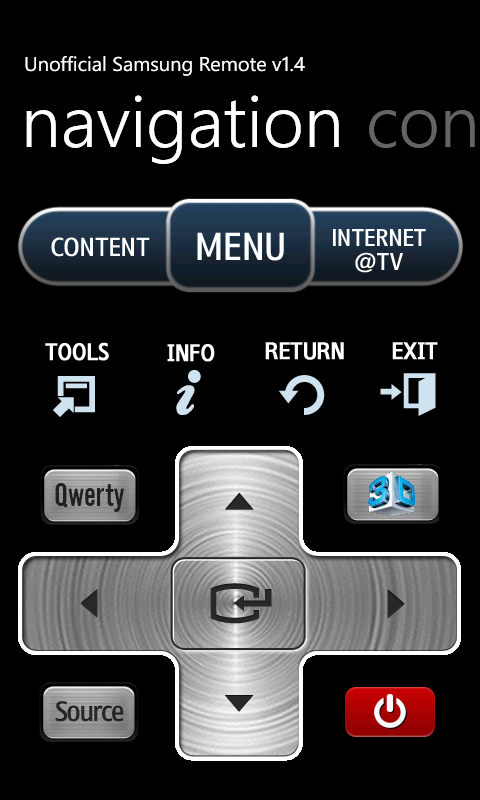
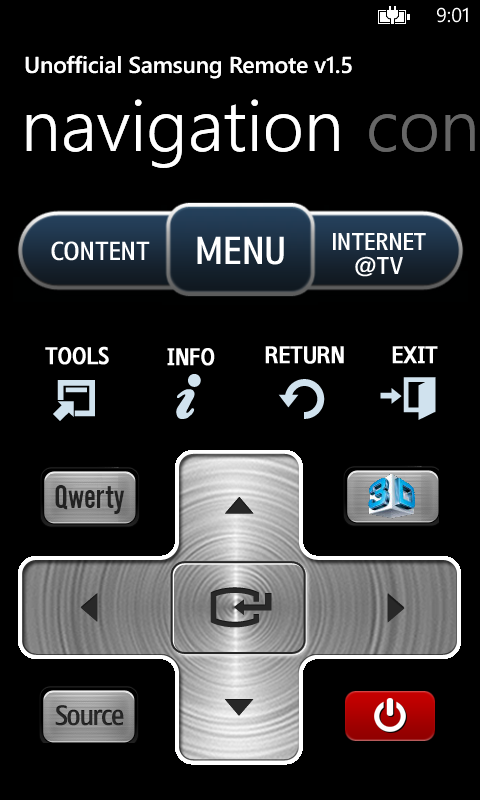
- Fixes for ES TVs and WP8 connectivity/registration weirdness - Version bump to 1.5 - New materials for updated submission requirements - Updated marketing images for v1.5

diff --git a/About.xaml b/About.xaml
@@ -58,7 +58,7 @@
                 <TextBlock TextWrapping="Wrap">This app was not written by an employee of Samsung and is not an officially-licensed, -endorsed, or -approved Samsung product. All trademarks and copyrights are the property of their owners.</TextBlock>
 
                 <ListBoxItem Margin="0,15,0,0" HorizontalContentAlignment="Stretch">
-                    <TextBlock TextWrapping="Wrap" TextAlignment="Center" FontWeight="SemiBold" Foreground="{StaticResource PhoneAccentBrush}">Thank you for using Unofficial Samsung Remote for Windows Phone 7!</TextBlock>
+                    <TextBlock TextWrapping="Wrap" TextAlignment="Center" FontWeight="SemiBold" Foreground="{StaticResource PhoneAccentBrush}">Thank you for using Unofficial Samsung Remote for Windows Phone!</TextBlock>
                 </ListBoxItem>
             </ListBox>
         </Grid>

diff --git a/TvConnection.cs b/TvConnection.cs
@@ -149,6 +149,8 @@ namespace SamsungRemoteWP7
                                 Registering();
                             }
 
+                            System.Diagnostics.Debug.WriteLine("[reg] sent msg");
+
                             e.SetBuffer(new byte[0x1000], 0, 0x1000);
                             TvDirectSock.ReceiveFromAsync(e);
                         }
@@ -161,6 +163,10 @@ namespace SamsungRemoteWP7
                             connectionState = TvConnectionState.Disconnected;
                         }
                     }
+                    else
+                    {
+                        System.Diagnostics.Debug.WriteLine("[con] sent msg");
+                    }
                     break;
 
                 case SocketAsyncOperation.ReceiveFrom:
@@ -170,7 +176,7 @@ namespace SamsungRemoteWP7
                         {
                             for (int i = e.Offset; i < e.BytesTransferred; i++)
                             {
-                                System.Diagnostics.Debug.WriteLine("0x{0:x}", e.Buffer[i]);
+                                //System.Diagnostics.Debug.WriteLine("0x{0:x}", e.Buffer[i]);
                             }
 
                             string responseStr = Encoding.UTF8.GetString(e.Buffer, e.Offset, e.BytesTransferred);
@@ -180,9 +186,10 @@ namespace SamsungRemoteWP7
                             string regApp = ReadString(sr);
                             char[] regResponse = ReadCharArray(sr);
 
-                            System.Diagnostics.Debug.WriteLine("tv returned: " + regApp);
+                            System.Diagnostics.Debug.WriteLine("[reg] tv returned: " + regApp);
 
                             bool bDisconnect = true;
+                            bool bUpdateConnectionState = true;
 
                             if (AreArraysEqual(regResponse, ALLOWED_BYTES))
                             {
@@ -213,13 +220,16 @@ namespace SamsungRemoteWP7
                                     RegistrationWaiting();
                                 }
                                 bDisconnect = false;
+                                bUpdateConnectionState = false;
                             }
                             else
                             {
-                                if (RegistrationDenied != null)
-                                {
-                                    RegistrationDenied();
-                                }
+//                                 if (RegistrationDenied != null)
+//                                 {
+//                                     RegistrationDenied();
+//                                 }
+                                bDisconnect = false;
+                                bUpdateConnectionState = false;
                             }
 
                             if (bDisconnect)
@@ -234,7 +244,10 @@ namespace SamsungRemoteWP7
                             else
                             {
                                 TvDirectSock.ReceiveFromAsync(e);
-                                connectionState = TvConnectionState.Connected;
+                                if (bUpdateConnectionState)
+                                {
+                                    connectionState = TvConnectionState.Connected;
+                                }
                             }
                         }
                         else
@@ -250,7 +263,7 @@ namespace SamsungRemoteWP7
                             {
                                 for (int i = e.Offset; i < e.BytesTransferred; i++)
                                 {
-                                    System.Diagnostics.Debug.WriteLine("0x{0:x}", e.Buffer[i]);
+                                    //System.Diagnostics.Debug.WriteLine("0x{0:x}", e.Buffer[i]);
                                 }
 
                                 string responseStr = Encoding.UTF8.GetString(e.Buffer, e.Offset, e.BytesTransferred);
@@ -260,7 +273,7 @@ namespace SamsungRemoteWP7
                                 string inApp = ReadString(sr);
                                 char[] keyResponse = ReadCharArray(sr);
 
-                                System.Diagnostics.Debug.WriteLine("tv returned: " + inApp);
+                                System.Diagnostics.Debug.WriteLine("[con] tv returned: " + inApp);
                             }
                             try
                             {
@@ -340,7 +353,7 @@ namespace SamsungRemoteWP7
             string phoneId = PhoneInfoExtendedProperties.GetWindowsLiveAnonymousID();
             if (string.IsNullOrWhiteSpace(phoneId))
             {
-                phoneId = "Anonymous WP7 phone";
+                phoneId = "Anonymous Windows phone";
             }
             WriteBase64Text(sb, phoneId);
             WriteBase64Text(sb, Microsoft.Phone.Info.DeviceStatus.DeviceName);

diff --git a/MainPage.xaml.cs b/MainPage.xaml.cs
@@ -563,12 +563,20 @@ namespace SamsungRemoteWP7
 
         void directConn_RegistrationTimedOut()
         {
-            SetProgressText("Remote connection timed out.");
+            //SetProgressText("Remote connection timed out.");
+            System.Windows.Deployment.Current.Dispatcher.BeginInvoke(() =>
+            {
+                MessageBox.Show("Remote connection timed out.");
+            });
         }
 
         void directConn_RegistrationDenied()
         {
-            SetProgressText("Remote connection denied.");
+            //SetProgressText("Remote connection denied.");
+            System.Windows.Deployment.Current.Dispatcher.BeginInvoke(() =>
+            {
+                MessageBox.Show("Remote connection denied.");
+            });
         }
 
         void directConn_RegistrationAccepted()
@@ -579,7 +587,11 @@ namespace SamsungRemoteWP7
 
         void directConn_RegistrationFailed()
         {
-            SetProgressText("Sending remote registration failed.");
+            //SetProgressText("Sending remote registration failed.");
+            System.Windows.Deployment.Current.Dispatcher.BeginInvoke(() =>
+            {
+                MessageBox.Show("Sending remote registration failed.");
+            });
             ToggleProgressBar(false);
         }
 

diff --git a/Discovery.cs b/Discovery.cs
@@ -167,7 +167,7 @@ namespace SamsungRemoteWP7
                     string response = Encoding.UTF8.GetString(e.Buffer, e.Offset, e.BytesTransferred);
                     System.Diagnostics.Debug.WriteLine("Received from {0}: {1}", e.RemoteEndPoint.ToString(), response);
 
-                    if (response.Contains("RemoteControlReceiver.xml"))
+                    if (response.Contains("urn:samsung.com:device:RemoteControlReceiver"))
                     {
                         if (TvFound != null)
                         {

diff --git a/Properties/AssemblyInfo.cs b/Properties/AssemblyInfo.cs
@@ -32,6 +32,6 @@ using System.Resources;
 //
 // You can specify all the values or you can default the Revision and Build Numbers 
 // by using the '*' as shown below:
-[assembly: AssemblyVersion("1.4.0.0")]
-[assembly: AssemblyFileVersion("1.4.0.0")]
+[assembly: AssemblyVersion("1.5.0")]
+[assembly: AssemblyFileVersion("1.5.0")]
 [assembly: NeutralResourcesLanguageAttribute("en-US")]
